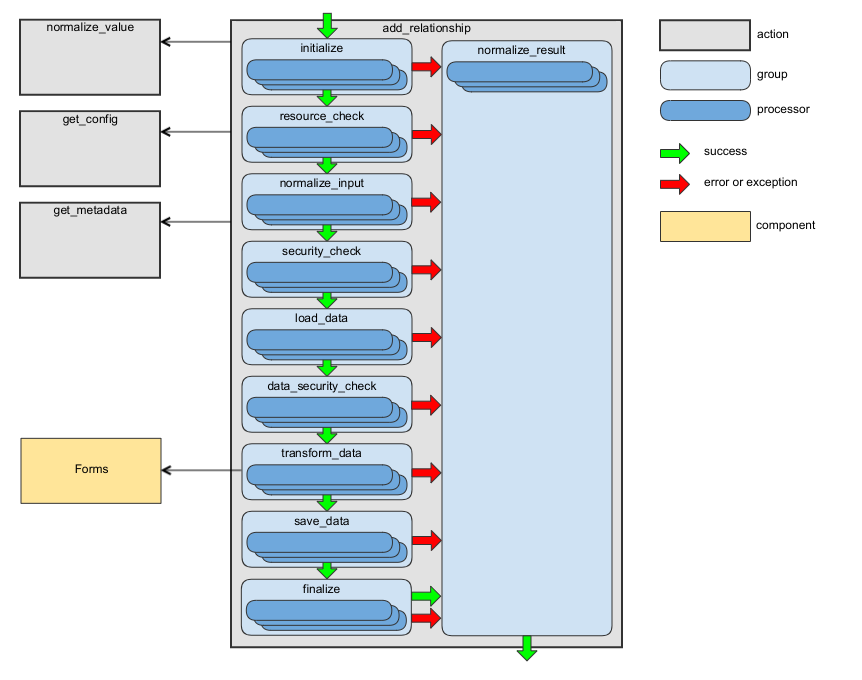
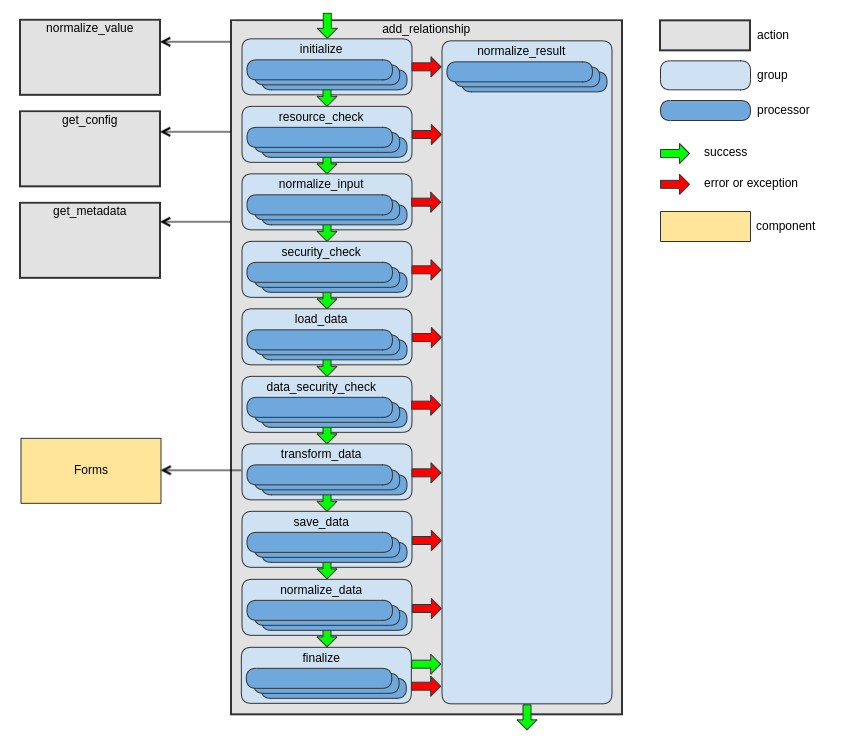
BAP-22197: Aggregated Context for Email Threads (#36440)

diff --git a/backend/api/actions.rst b/backend/api/actions.rst
@@ -691,6 +691,7 @@ This action has the following processor groups:
     "data_security_check","Checking whether access to the loaded data is granted.","--"
     "transform_data","Building a Symfony Form and using it to transform and validate the request data.","--"
     "save_data","Persisting an entity.","--"
+    "normalize_data","Converting the resulting relationship into an array.","--"
     "finalize","Adding the required response headers.","--"
     "normalize_result","Building the action result.","The processors from this group are executed even if a processor from previous groups throws an exception. For implementation details, see |NormalizeResultActionProcessor|."
 
@@ -729,6 +730,7 @@ This action has the following processor groups:
     "data_security_check","Checking whether access to the loaded data is granted.","--"
     "transform_data","Building a Symfony Form and using it to transform and validate the request data.","--"
     "save_data","Persisting an entity.","--"
+    "normalize_data","Converting the resulting relationship into an array.","--"
     "finalize","Adding the required response headers.","--"
     "normalize_result","Building the action result.","The processors from this group are executed even if a processor from previous groups throws an exception. For implementation details, see |NormalizeResultActionProcessor|."
 
@@ -772,6 +774,7 @@ This action has the following processor groups:
     "data_security_check","Checking whether access to the loaded data is granted.","--"
     "transform_data","Building a Symfony Form and using it to transform and validate the request data.","--"
     "save_data","Persisting an entity.","--"
+    "normalize_data","Converting the resulting relationship into an array.","--"
     "finalize","Adding the required response headers.","--"
     "normalize_result","Building the action result.","The processors from this group are executed even if a processor from previous groups throws an exception. For implementation details, see |NormalizeResultActionProcessor|."
 

diff --git a/backend/api/commands.rst b/backend/api/commands.rst
@@ -258,11 +258,17 @@ or
 
     php bin/console oro:api:metadata:dump users
 
-To display the entity metadata used for a particular action, use the ``--action`` option (please note that the default value for this option is ``get``):
+To display the entity metadata used for a particular action, use the ``--action`` option (please note that the default value for this option is ``get_list``):
 
 .. code-block:: none
 
     php bin/console oro:api:metadata:dump users --action=update
+
+You can also use the ``--parentAction`` and the ``--action`` options together to display the entity metadata used for an action executed as part of another action. For example, to display the entity metadata used for the ``get`` action executed as part of the ``create`` action, use the following command:
+
+.. code-block:: none
+
+    php bin/console oro:api:metadata:dump users --action=get --parentAction=create
 
 To display the entity metadata used for a particular request type, use the ``--request-type`` option:
 
